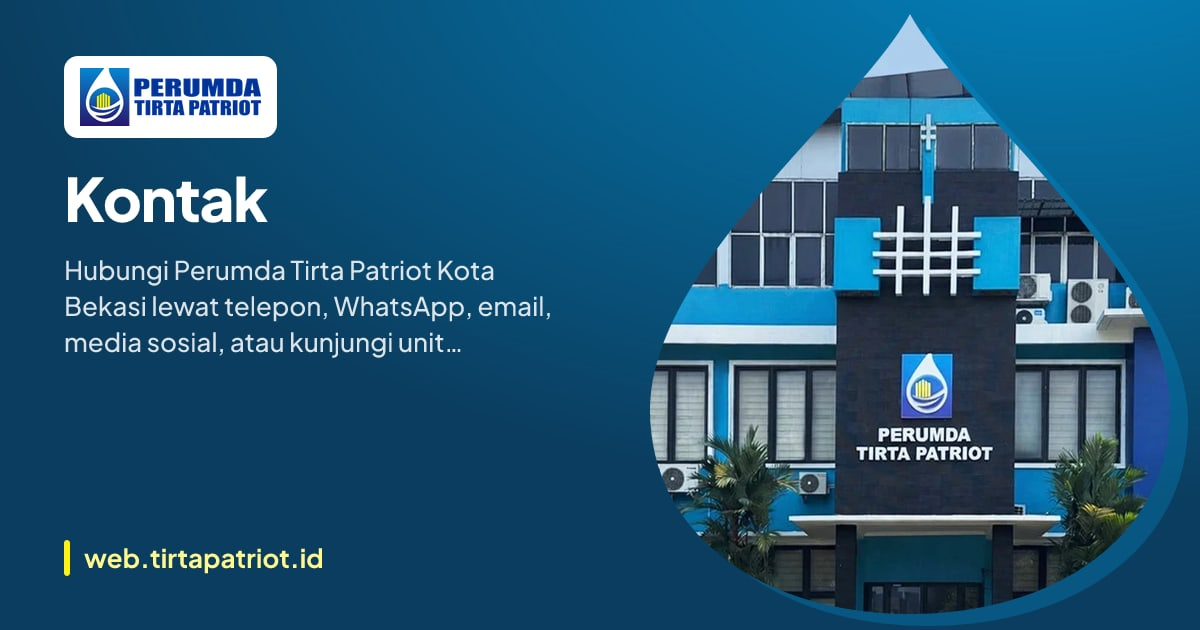
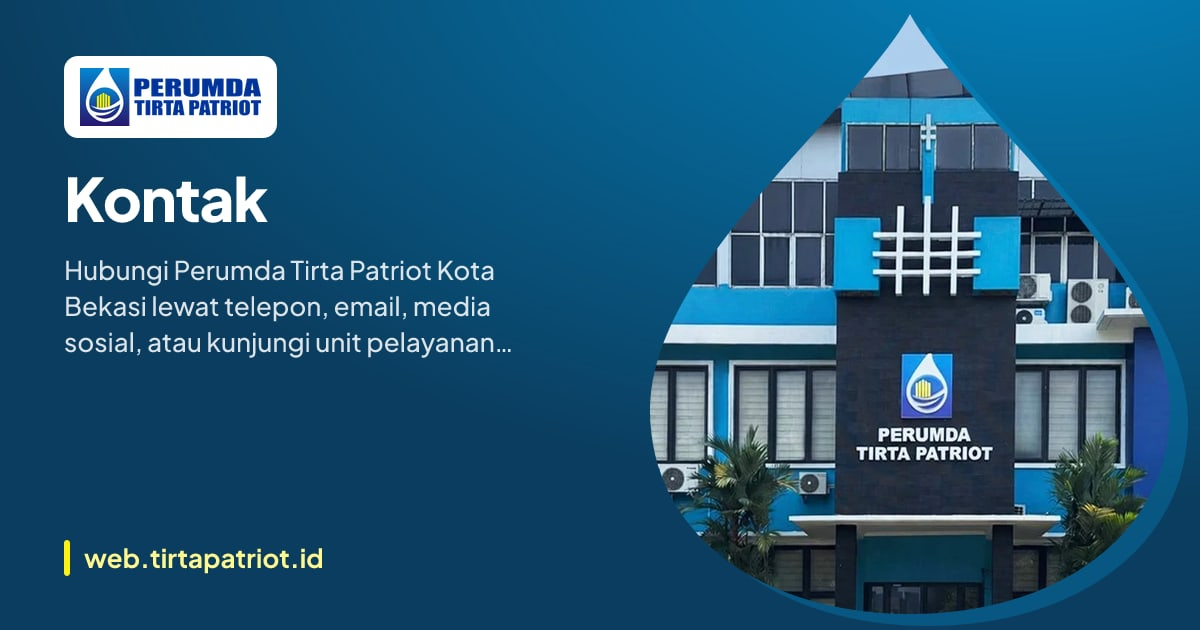
Hapus kanal WhatsApp dan Telegram serta grup Layanan mandiri
- kontak: grup Layanan mandiri dan Saluran informasi dihapus; tersisa kontak, media sosial, unit pelayanan
- site.ts: WhatsApp dan Telegram keluar dari CONTACTS, SOCIALS, dan sameAs; PHONE_CC menggantikan WHATSAPP_CC
- HelpPanel: tombol WhatsApp diganti tombol telepon; hapus gaya .btn-wa
- artikel: tombol bagikan WhatsApp dihapus; gangguan layanan: ajakan saluran WA/Telegram dihapus
- pesan di pendaftaran dan pengaduan merujuk ke telepon Contact Center
- kartu OG halaman kontak dibuat ulang
Dokumen legal WhatsApp Business (verifikasi Meta) dibiarkan.

Claude-Session: https://claude.ai/code/session_01UugmTGX82SYRjgUUArYJMm

Changed region(s): [[0.0308, 0.4524, 0.4625, 0.573]]

diff --git a/src/lib/site.ts b/src/lib/site.ts
@@ -6,18 +6,15 @@ export const SITE_DESCRIPTION = 'Perusahaan Umum Daerah Air Minum Tirta Patriot 
 
 export const ADDRESS = 'Jl. Perjuangan No.99, RT.003/RW.011, Marga Mulya, Kec. Bekasi Utara, Kota Bekasi, Jawa Barat 17142'
 
-export const WHATSAPP_CC = 'https://wa.me/6287875163845'
+export const PHONE_CC = { text: '021-8896-6161', href: 'tel:+622188966161' }
 
 export const CONTACTS = [
-  { title: 'Telepon', value: '021-8896-6161', icon: 'mdi:phone-outline', href: 'tel:+622188966161' },
-  { title: 'WhatsApp Humas', value: '0878-7516-3845', icon: 'mdi:whatsapp', href: WHATSAPP_CC },
+  { title: 'Telepon', value: PHONE_CC.text, icon: 'mdi:phone-outline', href: PHONE_CC.href },
   { title: 'Email Humas', value: 'humas@tirtapatriot.co.id', icon: 'mdi:email-outline', href: 'mailto:humas@tirtapatriot.co.id' },
   { title: 'Email Sekretariat', value: 'sekretariat@tirtapatriot.co.id', icon: 'mdi:email-outline', href: 'mailto:sekretariat@tirtapatriot.co.id' },
 ]
 
 export const SOCIALS = [
-  { title: 'WhatsApp', icon: 'mdi:whatsapp', href: WHATSAPP_CC },
-  { title: 'Telegram', icon: 'mdi:telegram', href: 'https://t.me/TirtaPatriot' },
   { title: 'Instagram', icon: 'mdi:instagram', href: 'https://instagram.com/TirtaPatriot' },
   { title: 'Facebook', icon: 'mdi:facebook', href: 'https://www.facebook.com/PerumdaTirtaPatriot' },
   { title: 'X', icon: 'mdi:twitter', href: 'https://x.com/TirtaPatriot' },
@@ -65,10 +62,6 @@ export const ORGANIZATION_LD = {
     'https://instagram.com/TirtaPatriot',
     'https://tiktok.com/PerumdaTirtaPatriot',
     'https://youtube.com/@TirtaPatriot',
-    'https://t.me/TirtaPatriot',
-    'https://t.me/PerumdaTirtaPatriot',
-    'https://whatsapp.com/channel/0029VaaWmpGId7nRB1BLj52w',
-    'https://wa.me/6287875163845',
   ],
   'taxID': '31.448.123.6-407.000',
   'duns': '56-457-1833',

diff --git a/src/scripts/pendaftaran.ts b/src/scripts/pendaftaran.ts
@@ -8,7 +8,7 @@
  */
 import { dateLong } from '../lib/format'
 import { INFO_PELANGGAN_API } from '../lib/info-pelanggan'
-import { WHATSAPP_CC } from '../lib/site'
+import { PHONE_CC } from '../lib/site'
 import { rupiah } from '../lib/tarif'
 import { api, ApiError } from './api'
 import { el, setBusy, showError } from './dom'
@@ -454,16 +454,14 @@ export async function showRegistrationStatus (nomor: string): Promise<void> {
     const notFound = caught instanceof ApiError && caught.status === 404
     // nomor pengajuan (SB…) diberikan saat mendaftar; pelacakan API baru mengenal nomor registrasi hasil verifikasi
     if (notFound && /^SB\d+$/i.test(nomor)) {
-      const wa = el('a', 'link', 'WhatsApp Contact Center')
-      wa.href = WHATSAPP_CC
-      wa.rel = 'noopener'
-      wa.target = '_blank'
+      const telepon = el('a', 'link', `Contact Center ${PHONE_CC.text}`)
+      telepon.href = PHONE_CC.href
       container.replaceChildren(
         el('div', 'flex flex-wrap items-center gap-4', el('h2', 'text-2xl font-extrabold', 'Status permohonan'), ticketDisplay(nomor.toUpperCase())),
         el('div', 'notice mt-6', el('p', '',
           `${nomor.toUpperCase()} adalah nomor pengajuan. Status permohonan dapat dicek di halaman ini setelah berkas diverifikasi, `,
           'menggunakan nomor registrasi 10 digit yang Anda terima saat itu. ',
-          'Untuk menanyakan permohonan sebelum itu, hubungi ', wa, ' dengan menyebutkan nomor pengajuan Anda.',
+          'Untuk menanyakan permohonan sebelum itu, hubungi ', telepon, ' dengan menyebutkan nomor pengajuan Anda.',
         )),
         statusActions(),
       )

diff --git a/src/lib/cari.ts b/src/lib/cari.ts
@@ -39,7 +39,7 @@ export const MENU: Entri[] = [
   { judul: 'Manajemen', ringkasan: 'Jajaran direksi serta susunan organisasi dan tata kerja.', url: '/perusahaan/manajemen', kata: 'direksi direktur organisasi struktur sotk' },
   { judul: 'Visi & Misi', ringkasan: 'Arah dan komitmen layanan air minum.', url: '/perusahaan/visi-misi' },
   { judul: 'Sejarah', ringkasan: 'Perjalanan melayani air bersih masyarakat Kota Bekasi.', url: '/perusahaan/sejarah', kata: 'profil perusahaan' },
-  { judul: 'Kontak', ringkasan: 'Telepon, WhatsApp, email, media sosial, dan unit pelayanan.', url: '/perusahaan/kontak', kata: 'hubungi telepon whatsapp email alamat kantor' },
+  { judul: 'Kontak', ringkasan: 'Telepon, email, media sosial, dan unit pelayanan.', url: '/perusahaan/kontak', kata: 'hubungi telepon email alamat kantor' },
   { judul: 'Lelang', ringkasan: 'Pengumuman pengadaan barang dan jasa di e-Procurement.', url: navigasi.find(item => item.id === 'lelang')?.tautan ?? '/', kata: 'pelelangan pengadaan tender eproc vendor' },
 ].map(entry => ({ jenis: 'menu' as const, ...entry }))
 

diff --git a/src/scripts/pengaduan.ts b/src/scripts/pengaduan.ts
@@ -354,7 +354,7 @@ export async function showTicketStatus (tiketId: string): Promise<void> {
     container.replaceChildren(
       el('h2', 'text-2xl font-extrabold', 'Status pengaduan'),
       el('p', 'notice notice-error mt-6', unavailable
-        ? `Pelacakan tiket lewat situs belum tersedia. Kirim nomor tiket ${tiketId} ke WhatsApp Contact Center 0878-7516-3845 untuk menanyakan statusnya.`
+        ? `Pelacakan tiket lewat situs belum tersedia. Hubungi Contact Center 021-8896-6161 dengan menyebutkan nomor tiket ${tiketId} untuk menanyakan statusnya.`
         : notFound
           ? `Tiket ${tiketId} tidak ditemukan. Periksa kembali nomor tiket Anda, lalu coba lagi.`
           : 'Status tiket belum dapat dimuat. Coba lagi dalam beberapa saat.'),

diff --git a/src/styles/global.css b/src/styles/global.css
@@ -198,15 +198,6 @@
     }
   }
 
-  .btn-wa {
-    background: var(--color-lunas);
-    color: #fff;
-
-    &:hover {
-      background: #0f5039;
-    }
-  }
-
   .link {
     color: var(--color-patriot);
     font-weight: 600;
